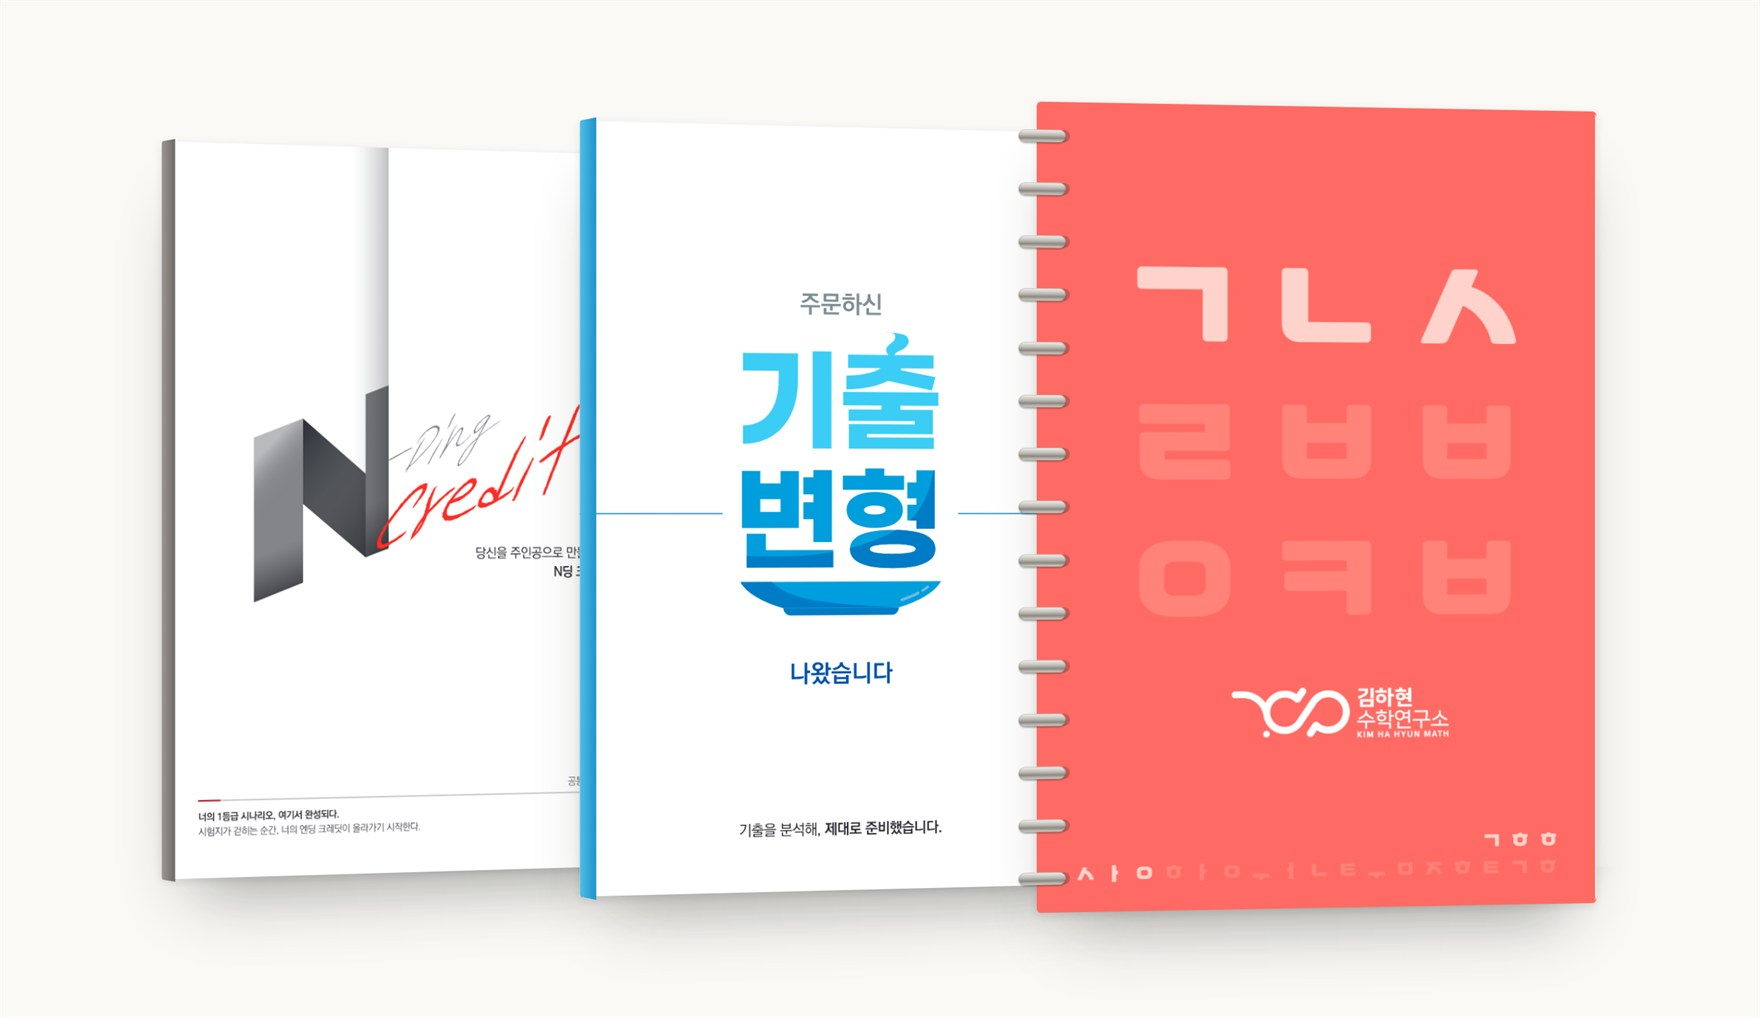
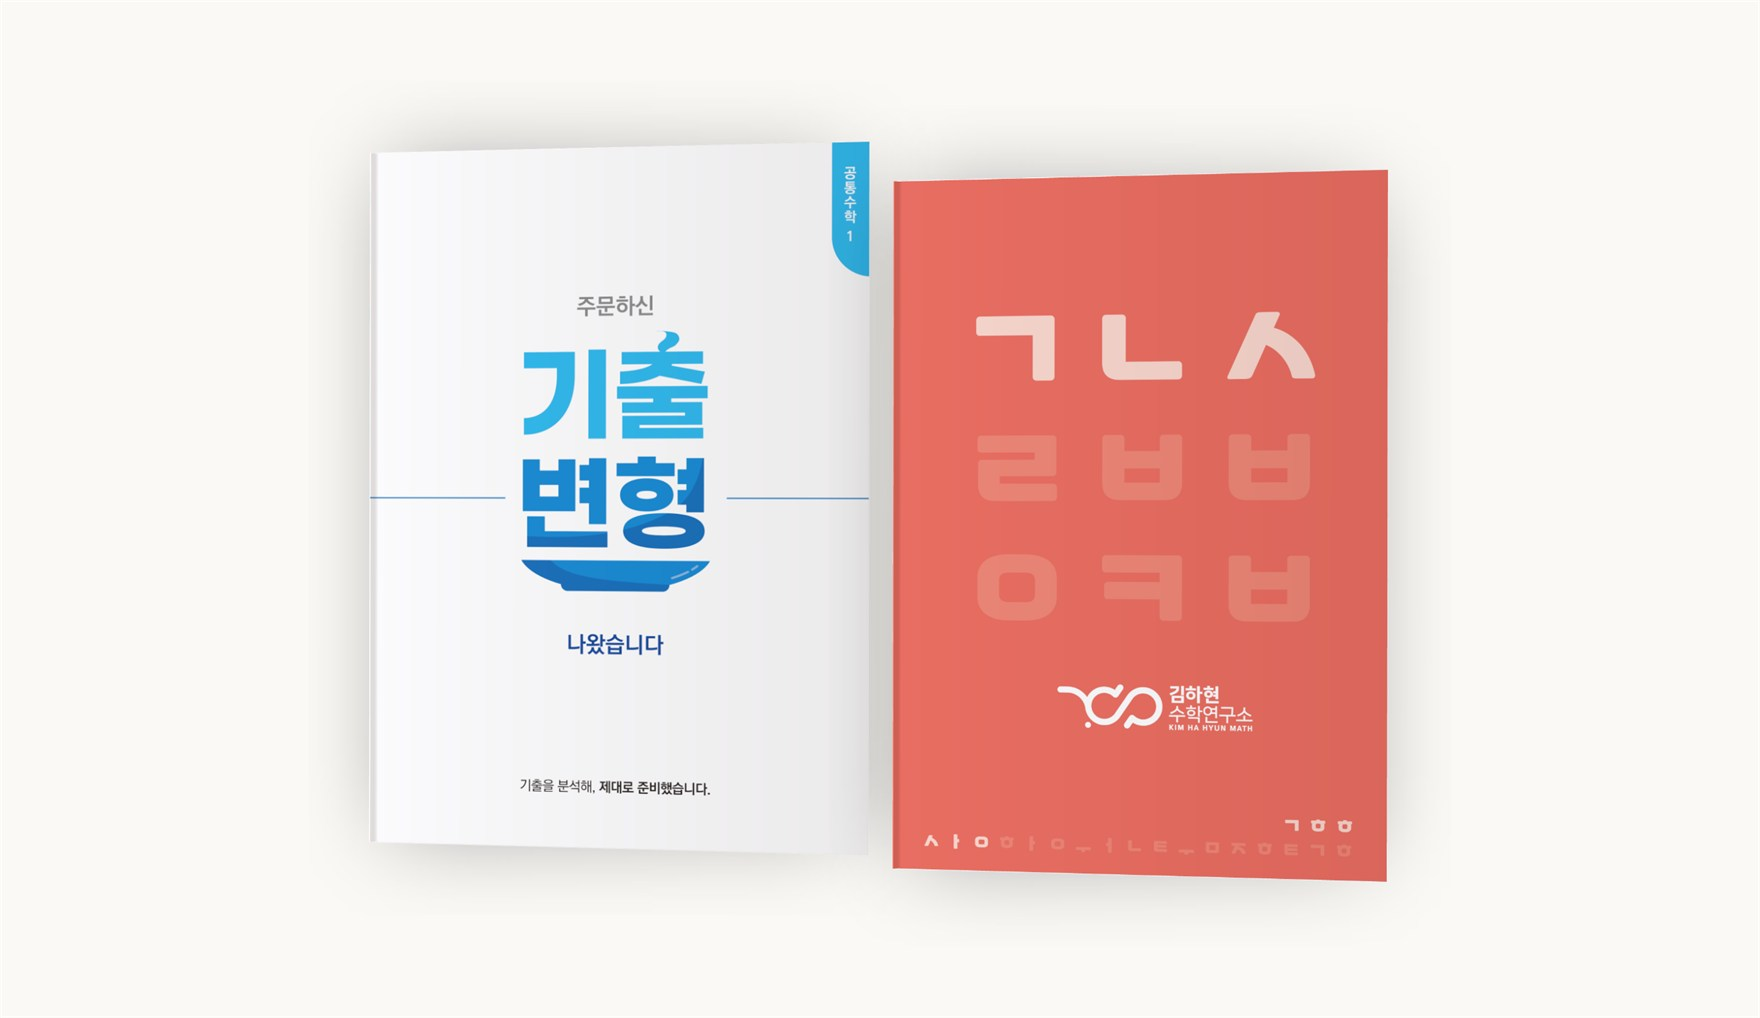
교재 목업을 사용자가 뽑은 것으로 갈아끼웠다
올려 준 PNG에 알파가 있어서 --paper 위에 그대로 앉힌다. CSS로 책의 몸을 그리던
앞판은 통째로 버렸다 — make-book-mockup.html이 하는 일은 이제 배치뿐이다.

⚠ 올려 준 셋 중 둘이 같은 파일이라 지금 서 있는 것은 주기나·개념서 두 권이다.
엔딩크레딧 목업이 오면 한 권을 더한다. 캡션도 두 권으로 맞췄다.

걸린 것 둘: 목업마다 책이 이미지에서 차지하는 비율이 달라 같은 width를 주면
책 크기가 어긋난다(책 상자를 재서 높이 519px로 역산) / 배경이 투명(rgb 0,0,0)이라
절대 문턱으로는 책 상자를 못 잰다(네 귀퉁이를 배경으로 삼아 상대값으로 잰다).

여섯 폭 실측 그대로 통과.

diff --git a/tools/make-book-mockup.html b/tools/make-book-mockup.html
@@ -1,100 +1,33 @@
 <!doctype html><meta charset="utf-8">
 <title>bookshot</title>
-<!-- 교재 세 권 목업. 표지는 실제 PDF에서 렌더한 것이고,
-     책의 «몸»(책등·책배·바닥 그림자·스프링)만 여기서 그린다.
-     ⚠ 사진이 아니라 «만든 것»이므로 과장하지 않는다 — 페이지가 절제된 톤이라
-        번들거리는 3D 렌더를 얹으면 그 자리만 튄다. 옅은 원근 + 얕은 그림자까지만.
+<!-- 교재 목업을 «한 장»으로 앉힌다.
+     책 자체는 사용자가 목업 도구로 뽑아 준 투명 PNG다 (책표지/mockupea_export*.png).
+     여기서 하는 일은 배치와 바탕뿐이다 — 책의 몸을 CSS로 그리던 앞판은 버렸다.
 
-     ⚠ 3D 문맥을 «책 한 권»으로 끊는다. row에 preserve-3d를 걸면 형제들이
-        DOM 순서가 아니라 z로 정렬돼서 뒷 책의 바닥 그림자가 앞 책 표지 위로 올라온다.
-        perspective()를 각 책의 transform 안에 두면 책끼리는 DOM 순서대로 그려진다.
-     ⚠ 그림자에 filter:blur를 쓰지 않는다 — 합성 층이 생겨 밝은 사각 얼룩을 남긴다. -->
+     ⚠ 바탕은 페이지와 «똑같은» --paper 단색이어야 한다. 그라디언트를 깔면
+        이미지의 네 변이 사각 테두리로 드러난다. 그림자는 PNG에 이미 구워져 있다.
+     ⚠ 책 높이를 «눈으로» 맞춘다 — 목업마다 책이 차지하는 비율이 달라서
+        같은 height를 줘도 책 크기가 어긋난다.
+
+     굽는 법:
+       node tools/serve.js
+       chrome --headless=new --hide-scrollbars --force-device-scale-factor=2 \
+         --virtual-time-budget=9000 --window-size=1280,740 \
+         --screenshot=out.png http://127.0.0.1:8777/tools/make-book-mockup.html
+     그 뒤 1760폭 JPG로 줄여 book-set.jpg로 둔다. -->
 <style>
 :root{ --paper:#FAF9F6; }
 *{box-sizing:border-box;}
 html,body{margin:0;background:var(--paper);}
-.stage{
-  width:1280px;height:740px;position:relative;
-  display:flex;align-items:flex-end;justify-content:center;
-  /* ⚠ 바탕은 페이지와 «똑같은» --paper 하나여야 한다. 바닥 그라디언트를 깔면
-     이미지의 네 변이 사각 테두리로 드러난다. 접지감은 책마다의 .cast가 맡는다. */
-  background:var(--paper);
-  padding-bottom:80px;
-}
-.row{display:flex;align-items:flex-end;}
-
-/* 한 자리 = 바닥 그림자 + 책. 이 상자는 3D가 아니다 */
-.slot{position:relative;}
-.cast{position:absolute;left:-11%;right:-15%;bottom:-12px;height:42px;
-  background:radial-gradient(52% 100% at 50% 0%,
-    rgba(34,34,30,.36) 0%, rgba(34,34,30,.15) 46%, rgba(34,34,30,0) 78%);}
-
-/* 책 — 앞표지 + 책등 + 책배 */
-.bk{position:relative;transform-style:preserve-3d;}
-.bk img{display:block;width:100%;height:auto;border-radius:1px 3px 3px 1px;
-  box-shadow:0 30px 48px -24px rgba(34,34,30,.46), 0 2px 7px rgba(34,34,30,.11);}
-/* 책등 — 표지 왼쪽 모서리에 경첩을 달아 뒤로 접는다 */
-.bk .spine{position:absolute;top:0;left:0;height:100%;
-  transform-origin:left center;transform:rotateY(-72deg);border-radius:2px 0 0 2px;}
-/* 책배(종이 단면) — 얇은 결이 있어야 «종이 뭉치»로 읽힌다 */
-.bk .edge{position:absolute;top:4px;right:0;height:calc(100% - 8px);
-  transform-origin:right center;transform:rotateY(74deg);border-radius:0 2px 2px 0;
-  background:repeating-linear-gradient(to right, #EFEDE7 0 1px, #FBFAF7 1px 3px);}
-
-/* ---- 스프링 제본 (개념서) ---- */
-.bk.spring img{border-radius:3px;}
-.bk .holes{position:absolute;top:3.4%;bottom:3.4%;left:15px;width:9px;
-  display:flex;flex-direction:column;justify-content:space-between;}
-.bk .holes i{display:block;height:9px;border-radius:9px;background:rgba(34,34,30,.26);}
-.bk .rings{position:absolute;top:3.4%;bottom:3.4%;left:-13px;width:34px;
-  display:flex;flex-direction:column;justify-content:space-between;}
-.bk .rings i{display:block;height:9px;border-radius:9px;
-  background:linear-gradient(180deg,#F2F1EE 0%,#BFBCB6 42%,#8B8781 68%,#DAD7D1 100%);
-  box-shadow:0 1px 1px rgba(34,34,30,.34), inset 0 0 0 .5px rgba(34,34,30,.18);}
+.stage{width:1280px;height:740px;background:var(--paper);
+  display:flex;align-items:center;justify-content:center;gap:0;}
+.stage img{display:block;height:auto;}
+/* 주기나 — 뒤. 개념서에 살짝 가린다 */
+.b-jugina{width:452px;margin-right:-74px;transform:translateY(-8px);}
+/* 개념서 — 앞 */
+.b-gaenyeom{width:453px;transform:translateY(12px);}
 </style>
-
 <div class="stage">
-  <div class="row">
-
-    <!-- 엔딩크레딧 — 제일 뒤 -->
-    <div class="slot" style="width:372px;margin:0 -66px 26px 0;">
-      <div class="cast"></div>
-      <div class="bk" style="transform:perspective(2600px) rotateY(16deg);">
-        <div class="spine" style="width:19px;background:linear-gradient(90deg,#9B9794,#6E6A68);"></div>
-        <div class="edge" style="width:22px;"></div>
-        <img src="/tools/cover-ending.png" alt="엔딩크레딧">
-      </div>
-    </div>
-
-    <!-- 주기나 -->
-    <div class="slot" style="width:392px;margin:0 -58px 13px 0;">
-      <div class="cast"></div>
-      <div class="bk" style="transform:perspective(2600px) rotateY(13deg);">
-        <div class="spine" style="width:26px;background:linear-gradient(90deg,#4FBDE9,#1E93C9);"></div>
-        <div class="edge" style="width:26px;"></div>
-        <img src="/tools/cover-jugina.png" alt="주기나 기출변형">
-      </div>
-    </div>
-
-    <!-- 개념서 — 스프링. 제일 앞에 세운다 (원칙 01이 «개념»이다) -->
-    <div class="slot" style="width:412px;">
-      <div class="cast"></div>
-      <div class="bk spring" style="transform:perspective(2600px) rotateY(9deg);">
-        <div class="edge" style="width:20px;"></div>
-        <img src="/tools/cover-gaenyeom.png" alt="개념서">
-        <div class="holes"></div>
-        <div class="rings"></div>
-      </div>
-    </div>
-
-  </div>
+  <img class="b-jugina"   src="/tools/mock-jugina.png"   alt="주기나 기출변형">
+  <img class="b-gaenyeom" src="/tools/mock-gaenyeom.png" alt="개념서">
 </div>
-
-<script>
-/* 링과 구멍은 개수가 같아야 한다. 손으로 두 번 쓰면 한쪽만 고쳐진다. */
-const N = 15;
-document.querySelectorAll('.rings, .holes').forEach(b=>{
-  b.innerHTML = Array.from({length:N}, ()=>'<i></i>').join('');
-});
-document.title = 'READY';
-</script>

diff --git a/index.html b/index.html
@@ -5403,12 +5403,13 @@ function homeHTML(){
           <p class="l-blead l-rise">시중 교재는 이것저것 담아 둔 책입니다.
             제가 말하려는 흐름에 맞는 문제만 골라 실어야,
             <b>수업에서 세운 순서가 문제집에서도 그대로 이어집니다.</b></p>
-          <!-- 표지는 실제 인쇄용 PDF에서 렌더한 것이고, 책의 «몸»만 tools/_bookshot.html이 그렸다. -->
+          <!-- 책은 사용자가 목업 도구로 뽑은 투명 PNG다. tools/make-book-mockup.html이 배치만 한다.
+               ⚠ 엔딩크레딧 목업이 아직 없다 — 오면 여기 한 권을 더하고 캡션도 늘린다. -->
           <figure class="l-bimg l-rise">
             <img src="book-set.jpg" loading="lazy" decoding="async" width="1760" height="1018"
-                 alt="직접 만든 교재 세 권 — 엔딩크레딧 · 주기나 기출변형 · 개념서">
-            <figcaption class="l-bcap">왼쪽부터 «엔딩크레딧» · «주기나 — 주문하신 기출변형 나왔습니다» ·
-              «개념서». 개념서는 펼쳐 두고 쓰도록 스프링으로 묶습니다.</figcaption>
+                 alt="직접 만든 교재 — 주기나 기출변형 · 개념서">
+            <figcaption class="l-bcap">왼쪽부터 «주기나 — 주문하신 기출변형 나왔습니다» · «개념서».
+              학교와 학년에 따라 따로 만듭니다.</figcaption>
           </figure>
           <ul class="l-why">
             ${HOME_CONTENT.bookWhy.map(w=>`<li class="l-rise">

diff --git a/CLAUDE.md b/CLAUDE.md
@@ -21,11 +21,11 @@
 > **④ 확장 없이 재는 길을 만들었다** — `tools/measure-landing.html` + 헤드리스 크롬.
 > **여섯 폭(390·560·760·900·1180·1440) 전부** 잘림 0 · 침범 0 · 가로 넘침 0 · 척추 정렬 OK.
 >
-> **⑤ 교재 목업을 실제 인쇄용 표지로 다시 만들었다** — 받은 AI 목업은 글씨가 깨져 있었다.
-> `책표지/`의 인쇄용 PDF 세 장을 pdf.js로 렌더해 앞표지만 잘라내고,
-> 책의 «몸»(책등·책배·그림자·**스프링**)은 `tools/make-book-mockup.html`이 그린다.
-> **개념서 · 주기나(기출변형) · 엔딩크레딧 세 권**이 서고, 교재 섹션은 그에 맞춰
-> «넓은 사진 한 장 + 아래 3열»로 바뀌었다.
+> **⑤ 교재 목업 — 두 번 갈아엎었다** 받은 AI 목업은 글씨가 깨져 있어서 인쇄용 PDF로
+> 다시 만들었고(pdf.js), 곧 사용자가 **투명 PNG 목업**을 올려 줘서 그걸로 갈아끼웠다.
+> 지금 서 있는 것은 **주기나(기출변형) · 개념서 두 권**이고,
+> 교재 섹션은 그에 맞춰 «넓은 사진 한 장 + 아래 3열»로 바뀌었다.
+> ⚠ **엔딩크레딧 목업은 아직 없다** — 올려 준 셋 중 둘이 같은 파일이었다.
 >
 > ⚠ **남은 것 — 원칙 문장 확인.** 큰 문장 셋은 말씀 그대로에 가깝지만
 > **딸린 설명 세 줄은 내가 이은 것**이다. 한 번 읽고 확정해야 push할 수 있다.
@@ -205,7 +205,7 @@ node tools/serve.js               # 127.0.0.1:8777
 | `probe-figure.mjs` | 배포된 워커의 `/figure`를 눌러 받은 장면을 그 자리에서 검산·렌더한다. **클라이언트를 배포하기 전에 모델 품질부터 볼 수 있다.** ⚠ 한 건에 한도 하나 |
 | `measure-landing.html` | 공개 홈을 진짜 뷰포트 iframe에 띄워 **잘림·침범·넘침·척추 정렬**을 잰다. **브라우저 확장 없이 헤드리스 크롬으로 돈다** → 6절 「확장 없이 재는 길」 |
 | `render-pdf-cover.html` | 인쇄용 표지 PDF를 캔버스로 그린다 (poppler 대신 pdf.js). ⚠ 본체는 `.gitignore` — 파일 머리말의 curl 두 줄로 받는다 |
-| `make-book-mockup.html` | `tools/cover-*.png` 세 장으로 **교재 목업**을 그린다 → `book-set.jpg`. 표지가 바뀌면 여기만 다시 굽는다 |
+| `make-book-mockup.html` | 투명 목업 PNG(`tools/mock-*.png`)를 `--paper` 위에 앉힌다 → `book-set.jpg`. **책이 늘면 여기만 고쳐 다시 굽는다** |
 
 ### 바로 열어볼 곳
 ```
@@ -1013,22 +1013,26 @@ state.view='assistant'; loadAllRecordsIfNeeded();
 > **「짐작으로 가르치지 않습니다」를 내건 페이지에 깨진 글씨를 실을 수는 없다.**
 > 원본이 있으면 목업을 «다시 만드는» 쪽이 «가리는» 쪽보다 언제나 싸다.
 
+**그리고 곧 한 번 더 갈아엎었다** — 사용자가 목업 도구로 뽑은 **투명 PNG**를 올려 줘서
+CSS로 책의 몸을 그리던 판을 **통째로 버렸다.** 지금 `make-book-mockup.html`이 하는 일은 **배치뿐**이다.
+
 | 단계 | 무엇 | 도구 |
 |---|---|---|
-| ① 표지 렌더 | 인쇄용 PDF → PNG. **poppler가 없어서 pdf.js로 한다** | `tools/render-pdf-cover.html` |
-| ② 앞표지 오려내기 | 두 권은 **펼침면**(뒤표지·책등·앞표지)이다. 앞표지 폭을 A4 비율로 역산해 자른다 — `W = H / 1.4142`, 책등 `S = 전체 − 2W` | System.Drawing |
-| ③ 책의 몸 | 책등 · 책배 · 바닥 그림자 · **스프링**을 CSS로 그린다 | `tools/make-book-mockup.html` |
-| ④ 굽기 | 헤드리스 크롬 2배 스크린샷 → 1760×1018 JPG (110KB) | `book-set.jpg` |
+| ① 목업 | 사용자가 뽑는다 (`책표지/mockupea_export*.png`, **알파 있음**) | 외부 목업 도구 |
+| ② 오려내기 | 책 상자 + 그림자 몫 여백만큼. **알파를 살려야 하므로 `Format32bppArgb` + `SourceCopy`** | System.Drawing → `tools/mock-*.png` |
+| ③ 배치 | `--paper` 위에 두 권을 세운다 | `tools/make-book-mockup.html` |
+| ④ 굽기 | 헤드리스 크롬 2배 → 1760×1018 JPG (82KB) | `book-set.jpg` |
 
-- **개념서는 스프링 제본**이라 링 15개와 구멍 15개를 그린다. 개수는 스크립트가 한 번에 만든다 —
-  손으로 두 번 쓰면 한쪽만 고쳐진다
-- ⚠ **바탕은 페이지와 «똑같은» `--paper` 단색이어야 한다.** 처음에 바닥 그라디언트를 깔았더니
-  **이미지의 네 변이 사각 테두리로 드러났다.** 접지감은 책마다의 바닥 그림자가 맡는다
-- ⚠ **3D 문맥을 «책 한 권»으로 끊는다.** 줄에 `preserve-3d`를 걸면 형제가 DOM 순서가 아니라
-  z로 정렬돼 **뒷 책의 그림자가 앞 책 표지 위로 올라온다.** `perspective()`를 각 책의
-  `transform` 안에 두면 책끼리는 DOM 순서대로 그려진다
-- ⚠ **그림자에 `filter:blur`를 쓰지 않는다** — 합성 층이 생겨 **밝은 사각 얼룩**을 남겼다
-- 교재가 셋이라 300px 칸에 넣으면 제목이 안 읽힌다 → 이 섹션만 **«넓은 사진 한 장 + 아래 3열»**이다
+- ⚠ **바탕은 페이지와 «똑같은» `--paper` 단색이어야 한다.** 바닥 그라디언트를 깔았더니
+  **이미지의 네 변이 사각 테두리로 드러났다.** 그림자는 목업 PNG에 이미 구워져 있다
+- ⚠ **목업마다 «책이 이미지에서 차지하는 비율»이 다르다.** 같은 `width`를 주면 책 크기가 어긋난다.
+  책 상자를 재서 **책 높이가 같아지도록 폭을 역산**했다 (둘 다 519px)
+- ⚠ **책 상자를 잴 때 문턱을 절대값으로 두면 안 된다.** 이 PNG는 배경이 «투명(rgb 0,0,0)»이라
+  「250보다 어두우면 내용」 같은 규칙은 이미지 전체를 잡는다. **네 귀퉁이 색을 배경으로 삼아
+  거기서 벗어난 정도**로 재야 한다
+- 인쇄용 PDF에서 앞표지를 뽑는 길은 그대로 남겼다 (`tools/cover-*.png`) —
+  **저장소에 있는 유일한 표지 원본**이라 목업이 없는 책을 그릴 때 쓴다
+- 교재가 여러 권이라 300px 칸에 넣으면 제목이 안 읽힌다 → 이 섹션만 **«넓은 사진 한 장 + 아래 3열»**이다
 
 교재를 직접 만드는 이유는 사용자의 말 그대로다 — **흐름에 맞는 문제만 직접 선별** ·
 **지역과 학교 특색** · **학생 수준**.
@@ -2118,8 +2122,10 @@ IntersectionObserver 둘(등장 · 상단바)을 렌더마다 새로 만들고, 
 >    「1차 검토 대기」로 옮겨 가는지. 2026-08-13에는 브라우저 확장이 안 붙어 못 봤다
 
 L. **랜딩 마무리 — 골격은 섰고 재료를 기다린다** (2026-08-13 재구성) → 6절 「랜딩을 다시 세웠다」
-   - ~~교재 사진~~ — **2026-08-13에 인쇄용 표지 세 장으로 목업을 만들어 넣었다.**
-     남은 것은 **펼친 내지** 사진뿐이다 — 있으면 「직접 선별한 문항」을 눈으로 보여줄 수 있다
+   - ~~교재 사진~~ — **2026-08-13에 사용자가 준 목업 PNG로 넣었다.** 남은 것 셋 —
+     ① **엔딩크레딧 목업이 아직 없다**(올려 준 셋 중 둘이 같은 파일이었다). 오면 한 권을 더한다
+     ② **개념서를 스프링 제본으로 뽑으면 좋겠다고 하셨는데 받은 목업은 무선철이다**
+     ③ **펼친 내지** 사진 — 있으면 「직접 선별한 문항」을 눈으로 보여줄 수 있다
    - **원칙 문장 셋을 사용자가 읽고 확정** — 큰 문장은 말씀을 한 겹 다듬은 것이고
      딸린 설명 세 줄은 내가 이은 것이다. **틀린 뉘앙스가 있으면 그 줄부터 고친다** (9절 8번)
    - **「생각의 흐름」에 부를 이름** — 메가스터디의 「3단계」·「3 in 1」에 해당하는 자리다.
